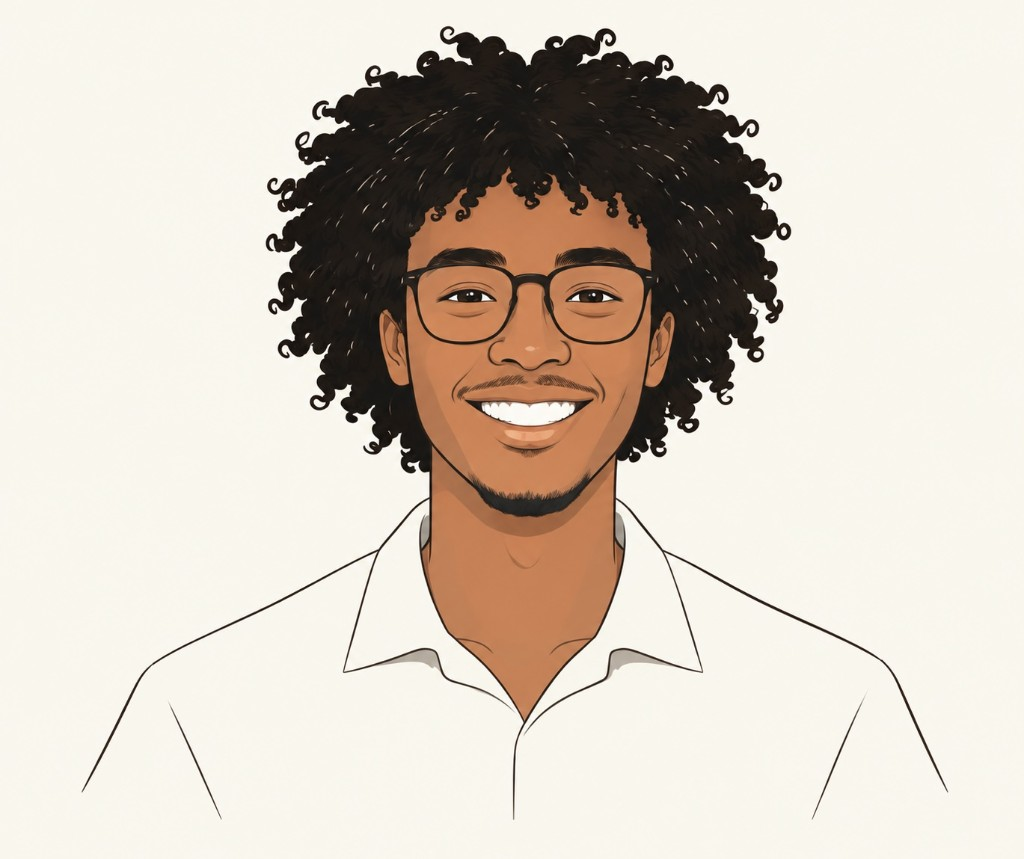
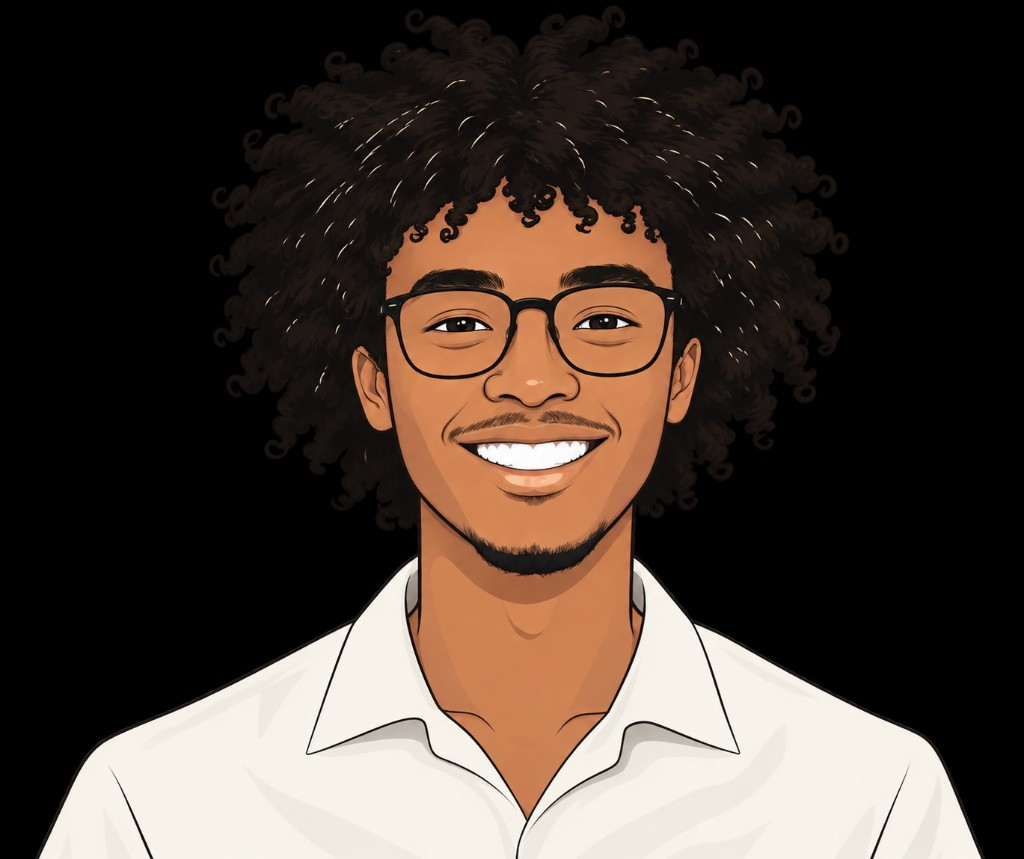
Use the new still cartoon and drop the smile animation.

diff --git a/styles.css b/styles.css
@@ -174,58 +174,13 @@ main {
   line-height: 1.65;
 }
 
-.hero-photo-wrap {
-  position: relative;
+.hero-photo {
   flex: 0 0 10.5rem;
   width: 10.5rem;
   height: 10.5rem;
-  transform-origin: 50% 90%;
-  animation: photo-tilt 4.8s ease-in-out infinite;
-}
-
-.hero-photo {
-  display: block;
-  width: 10.5rem;
-  height: 10.5rem;
-  object-fit: contain;
-  object-position: center bottom;
+  object-fit: cover;
+  object-position: center 18%;
   border-radius: 2px;
-}
-
-.hero-photo-smile {
-  position: absolute;
-  inset: 0;
-  opacity: 0;
-  animation: photo-smile 4.8s ease-in-out infinite;
-}
-
-@keyframes photo-tilt {
-  0%,
-  100% {
-    transform: rotate(-3deg);
-  }
-
-  50% {
-    transform: rotate(7deg);
-  }
-
-}
-
-@keyframes photo-smile {
-  0%,
-  28% {
-    opacity: 0;
-  }
-
-  42%,
-  58% {
-    opacity: 1;
-  }
-
-  72%,
-  100% {
-    opacity: 0;
-  }
 }
 
 .block {
@@ -491,7 +446,6 @@ a.work:hover strong,
     padding-top: 2.25rem;
   }
 
-  .hero-photo-wrap,
   .hero-photo {
     flex-basis: 7.5rem;
     width: 7.5rem;
@@ -507,14 +461,5 @@ a.work:hover strong,
 @media (prefers-reduced-motion: reduce) {
   html {
     scroll-behavior: auto;
-  }
-
-  .hero-photo-wrap,
-  .hero-photo-smile {
-    animation: none;
-  }
-
-  .hero-photo-smile {
-    opacity: 0;
   }
 }

diff --git a/index.html b/index.html
@@ -20,7 +20,7 @@
       href="https://fonts.googleapis.com/css2?family=IBM+Plex+Sans:wght@400;500&family=Newsreader:opsz,wght@6..72,400;6..72,500&display=swap"
       rel="stylesheet"
     />
-    <link rel="stylesheet" href="styles.css?v=21" />
+    <link rel="stylesheet" href="styles.css?v=22" />
   </head>
   <body>
     <a class="skip" href="#content">Skip to content</a>
@@ -44,22 +44,13 @@
             research sit after — context, not the lead.
           </p>
         </div>
-        <div class="hero-photo-wrap">
-          <img
-            class="hero-photo"
-            src="assets/cartoon.png?v=2"
-            width="168"
-            height="168"
-            alt=""
-          />
-          <img
-            class="hero-photo hero-photo-smile"
-            src="assets/cartoon-smile.png"
-            width="168"
-            height="168"
-            alt="Yosief Abraham"
-          />
-        </div>
+        <img
+          class="hero-photo"
+          src="assets/cartoon.png?v=3"
+          width="168"
+          height="168"
+          alt="Yosief Abraham"
+        />
       </section>
 
       <section class="block" id="work" aria-labelledby="work-title">

diff --git a/contact.html b/contact.html
@@ -12,7 +12,7 @@
       href="https://fonts.googleapis.com/css2?family=IBM+Plex+Sans:wght@400;500&family=Newsreader:opsz,wght@6..72,400;6..72,500&display=swap"
       rel="stylesheet"
     />
-    <link rel="stylesheet" href="styles.css?v=21" />
+    <link rel="stylesheet" href="styles.css?v=22" />
   </head>
   <body>
     <a class="skip" href="#content">Skip to content</a>
